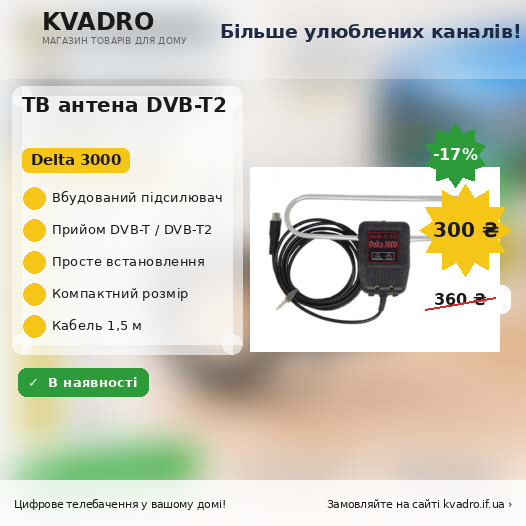
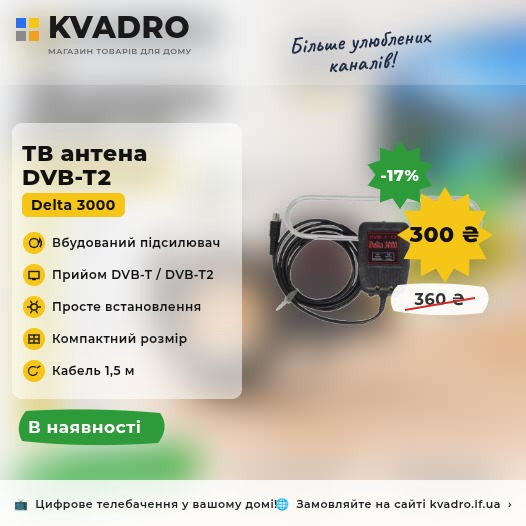
master - added generate promo command

diff --git a/public/lib/admin-promo-image-editor.js b/public/lib/admin-promo-image-editor.js
@@ -275,8 +275,8 @@
     }
 
     function drawLogoMark(x, y) {
-        const s = 7;
-        const gap = 2;
+        const s = 10;
+        const gap = 3;
         const colors = ['#2f6fed', '#f5c518', '#8a8a8a', '#f0a020'];
         colors.forEach((color, i) => {
             const col = i % 2;
@@ -357,36 +357,54 @@
             containImage(images.product, px, py, pw, ph);
         }
 
-        // Soft light panels for readability (height fits features + offset)
+        // Soft light panels — features offset expands height; whole block re-centers
+        const headerBottom = 85;
+        const footerTop = 480;
         const featuresOffset = Math.max(0, Math.min(100, Number(state.featuresOffsetY) || 0));
         const features = (state.features || []).filter(Boolean).slice(0, 5);
-        const featureStartY = 198 + featuresOffset;
         const featureStep = 32;
-        const lastFeatureY = features.length > 0
-            ? featureStartY + (features.length - 1) * featureStep
-            : 165 + featuresOffset;
-        const panelTop = 86;
-        const panelHeight = Math.max(200, lastFeatureY + 28 - panelTop);
+        const padTop = 22;
+        const titleBlockH = 48;
+        const modelRelY = padTop + titleBlockH; // 70
+        const modelH = 24;
+        const featureRelBase = modelRelY + modelH + 26; // 120
+        const featureRelStart = featureRelBase + featuresOffset;
+        const lastFeatureRel = features.length > 0
+            ? featureRelStart + (features.length - 1) * featureStep
+            : modelRelY + modelH;
+        const panelHeight = Math.max(160, lastFeatureRel + 28);
+        const showStock = !!(state.showStock && state.stockText);
+        const stockGap = showStock ? 12 : 0;
+        const stockH = showStock ? 32 : 0;
+        const totalBlockH = panelHeight + stockGap + stockH;
+        const available = footerTop - headerBottom;
+        let panelTop = headerBottom + Math.max(8, Math.round((available - totalBlockH) / 2));
+        panelTop = Math.max(headerBottom + 6, Math.min(panelTop, footerTop - totalBlockH - 6));
+
+        const titleY = panelTop + padTop + 16;
+        const modelY = panelTop + modelRelY;
+        const featureStartY = panelTop + featureRelStart;
+        const stockY = panelTop + panelHeight + stockGap;
 
         ctx.fillStyle = 'rgba(255,255,255,0.18)';
-        ctx.fillRect(0, 0, size, 78);
+        ctx.fillRect(0, 0, size, headerBottom);
         ctx.fillStyle = 'rgba(255,255,255,0.55)';
         roundRect(12, panelTop, 230, panelHeight, 10);
         ctx.fill();
 
         // Brand
-        drawLogoMark(18, 16);
+        drawLogoMark(16, 18);
         ctx.fillStyle = '#1a1a1a';
-        ctx.font = '800 22px Montserrat, Arial, sans-serif';
-        ctx.fillText(state.brandName || '', 42, 30);
+        ctx.font = '800 30px Montserrat, Arial, sans-serif';
+        ctx.fillText(state.brandName || '', 48, 38);
         ctx.fillStyle = '#666';
         ctx.font = '600 8px Montserrat, Arial, sans-serif';
         ctx.letterSpacing = '0.5px';
-        ctx.fillText((state.brandTagline || '').toUpperCase(), 42, 44);
+        ctx.fillText((state.brandTagline || '').toUpperCase(), 48, 54);
 
-        // Slogan
+        // Slogan — moves with features block
         ctx.save();
-        ctx.translate(360, 42);
+        ctx.translate(360, featureStartY);
         ctx.rotate(-0.08);
         ctx.fillStyle = '#1f2a44';
         ctx.font = '700 22px Caveat, cursive';
@@ -394,21 +412,20 @@
         wrapText(state.slogan || '', 0, 0, 170, 22);
         ctx.restore();
 
-        // Title (stays fixed)
+        // Title + model relative to panel; features shifted by offset inside panel
         ctx.textAlign = 'left';
         ctx.fillStyle = '#111';
         ctx.font = '800 22px Montserrat, Arial, sans-serif';
-        wrapText(state.title || '', 22, 112, 200, 24);
+        wrapText(state.title || '', 22, titleY, 200, 24);
 
-        // Model + features block (movable down)
         const model = state.model || '';
         ctx.font = '700 14px Montserrat, Arial, sans-serif';
         const modelW = Math.max(88, ctx.measureText(model).width + 18);
         ctx.fillStyle = '#f5c518';
-        roundRect(22, 148 + featuresOffset, modelW, 24, 6);
+        roundRect(22, modelY, modelW, modelH, 6);
         ctx.fill();
         ctx.fillStyle = '#111';
-        ctx.fillText(model, 31, 165 + featuresOffset);
+        ctx.fillText(model, 31, modelY + 17);
 
         features.forEach((text, i) => {
             const y = featureStartY + i * featureStep;
@@ -418,14 +435,12 @@
             ctx.fillText(text, 52, y + 4);
         });
 
-        // Stock just under the features panel
-        const stockY = panelTop + panelHeight + 14;
-        if (state.showStock && state.stockText) {
-            drawBrush(18, stockY, 130, 28, '#2e9b3a');
+        if (showStock) {
+            drawBrush(18, stockY, 148, stockH, '#2e9b3a');
             ctx.fillStyle = '#fff';
-            ctx.font = '700 13px Montserrat, Arial, sans-serif';
+            ctx.font = '700 17px Montserrat, Arial, sans-serif';
             ctx.textAlign = 'left';
-            ctx.fillText('✓  ' + state.stockText, 28, stockY + 19);
+            ctx.fillText(state.stockText, 28, stockY + 22);
         }
 
         // Price badges
@@ -465,7 +480,7 @@
         ctx.fillStyle = '#222';
         ctx.font = '600 11px Montserrat, Arial, sans-serif';
         ctx.textAlign = 'left';
-        ctx.fillText('📺  ' + (state.footerLeft || ''), 14, 508);
+        ctx.fillText(state.footerLeft || '', 14, 508);
         ctx.textAlign = 'right';
         ctx.fillText('🌐  ' + (state.footerRight || '') + '  ›', size - 14, 508);
         ctx.textAlign = 'left';

diff --git a/src/Command/GeneratePromoFromProductsCommand.php b/src/Command/GeneratePromoFromProductsCommand.php
@@ -179,12 +179,32 @@ final class GeneratePromoFromProductsCommand extends Command
             ];
         }
 
+        if (
+            str_contains($slug, 'gear')
+            || str_contains($sku, 'wp952')
+            || str_contains(mb_strtolower($name), 'powerbank')
+            || str_contains(mb_strtolower($name), 'повербанк')
+        ) {
+            return [
+                'Повербанк 20000 mAh',
+                'GEAR 20000',
+                'Заряд завжди з вами!',
+                [
+                    'Ємність 20000 mAh',
+                    'Power Delivery 22.5W',
+                    'Цифровий дисплей',
+                    '4 порти зарядки',
+                    'Для телефону й роутера',
+                ],
+            ];
+        }
+
         $model = $product->getSku() !== '' ? $product->getSku() : mb_substr($name, 0, 24);
 
         return [
             $name,
             $model,
-            'Більше улюблених каналів!',
+            'Вигідна пропозиція!',
             [
                 'Якісний товар',
                 'Швидка доставка',
@@ -197,6 +217,15 @@ final class GeneratePromoFromProductsCommand extends Command
 
     private function resolveProductImageUrl(Product $product): string
     {
+        $slug = $product->getSlug();
+        $cutouts = [
+            'delta-3000' => '/uploads/promo/products/111142.png',
+            'wv-t624' => '/uploads/promo/products/11074.png',
+        ];
+        if (isset($cutouts[$slug]) && is_file($this->projectDir.'/public'.$cutouts[$slug])) {
+            return $cutouts[$slug];
+        }
+
         $gallery = $product->getGallery();
         if (isset($gallery[0]['full']) && \is_string($gallery[0]['full']) && $gallery[0]['full'] !== '') {
             $full = $gallery[0]['full'];
@@ -205,15 +234,6 @@ final class GeneratePromoFromProductsCommand extends Command
             }
 
             return '/uploads/products/'.basename($full);
-        }
-
-        $slug = $product->getSlug();
-        $cutouts = [
-            'delta-3000' => '/uploads/promo/products/111142.png',
-            'wv-t624' => '/uploads/promo/products/11074.png',
-        ];
-        if (isset($cutouts[$slug]) && is_file($this->projectDir.'/public'.$cutouts[$slug])) {
-            return $cutouts[$slug];
         }
 
         return '/uploads/promo/default-product.png';
@@ -255,26 +275,48 @@ final class GeneratePromoFromProductsCommand extends Command
         /** @var list<string> $features */
         $features = array_values(array_filter(array_map('strval', (array) ($c['features'] ?? []))));
         $features = \array_slice($features, 0, 5);
-        $featureStartY = 198 + $offset;
-        $lastFeatureY = $features !== [] ? $featureStartY + (\count($features) - 1) * 32 : 165 + $offset;
-        $panelHeight = max(200, $lastFeatureY + 28 - 86);
 
-        imagefilledrectangle($im, 0, 0, $size, 78, imagecolorallocatealpha($im, 255, 255, 255, 90));
-        $this->roundRect($im, 12, 86, 230, $panelHeight, 10, imagecolorallocatealpha($im, 255, 255, 255, 50));
+        $headerBottom = 85;
+        $footerTop = 480;
+        $featureStep = 32;
+        $padTop = 22;
+        $titleBlockH = 48;
+        $modelRelY = $padTop + $titleBlockH;
+        $modelH = 24;
+        $featureRelBase = $modelRelY + $modelH + 26;
+        $featureRelStart = $featureRelBase + $offset;
+        $lastFeatureRel = $features !== []
+            ? $featureRelStart + (\count($features) - 1) * $featureStep
+            : $modelRelY + $modelH;
+        $panelHeight = max(160, $lastFeatureRel + 28);
+        $showStock = !empty($c['showStock']) && (string) ($c['stockText'] ?? '') !== '';
+        $stockGap = $showStock ? 12 : 0;
+        $stockH = $showStock ? 32 : 0;
+        $totalBlockH = $panelHeight + $stockGap + $stockH;
+        $available = $footerTop - $headerBottom;
+        $panelTop = $headerBottom + max(8, (int) round(($available - $totalBlockH) / 2));
+        $panelTop = max($headerBottom + 6, min($panelTop, $footerTop - $totalBlockH - 6));
+        $titleY = $panelTop + $padTop + 16;
+        $modelY = $panelTop + $modelRelY;
+        $featureStartY = $panelTop + $featureRelStart;
+        $stockY = $panelTop + $panelHeight + $stockGap;
 
-        $this->text($im, $fontBold, 18, 42, 30, (string) $c['brandName'], $ink);
-        $this->text($im, $fontReg, 7, 42, 44, mb_strtoupper((string) $c['brandTagline']), $muted);
-        $this->text($im, $fontBold, 14, 370, 38, (string) $c['slogan'], $sloganColor, 'center');
-        $this->wrapText($im, $fontBold, 15, 22, 112, (string) $c['title'], $ink, 210, 20);
+        imagefilledrectangle($im, 0, 0, $size, $headerBottom, imagecolorallocatealpha($im, 255, 255, 255, 90));
+        $this->roundRect($im, 12, $panelTop, 230, $panelHeight, 10, imagecolorallocatealpha($im, 255, 255, 255, 50));
+
+        $this->text($im, $fontBold, 24, 48, 38, (string) $c['brandName'], $ink);
+        $this->text($im, $fontReg, 7, 48, 54, mb_strtoupper((string) $c['brandTagline']), $muted);
+        $this->text($im, $fontBold, 14, 370, $featureStartY, (string) $c['slogan'], $sloganColor, 'center');
+        $this->wrapText($im, $fontBold, 15, 22, $titleY, (string) $c['title'], $ink, 210, 20);
 
         $model = (string) $c['model'];
         $bbox = imagettfbbox(11, 0, $fontBold, $model);
         $modelW = max(88, ($bbox[2] - $bbox[0]) + 18);
-        $this->roundRect($im, 22, 148 + $offset, (int) $modelW, 24, 6, $yellow);
-        $this->text($im, $fontBold, 11, 31, 165 + $offset, $model, $ink);
+        $this->roundRect($im, 22, $modelY, (int) $modelW, $modelH, 6, $yellow);
+        $this->text($im, $fontBold, 11, 31, $modelY + 17, $model, $ink);
 
         foreach ($features as $i => $feat) {
-            $y = $featureStartY + $i * 32;
+            $y = $featureStartY + $i * $featureStep;
             imagefilledellipse($im, 34, $y, 22, 22, $yellow);
             $this->text($im, $fontReg, 10, 52, $y + 4, $feat, $ink);
         }
@@ -294,13 +336,12 @@ final class GeneratePromoFromProductsCommand extends Command
             imageline($im, 425, 310, 495, 298, $red);
         }
 
-        $stockY = 86 + $panelHeight + 14;
-        if (!empty($c['showStock']) && (string) $c['stockText'] !== '') {
-            $this->roundRect($im, 18, $stockY, 130, 28, 8, $green);
-            $this->text($im, $fontBold, 10, 28, $stockY + 19, '✓  '.$c['stockText'], $white);
+        if ($showStock) {
+            $this->roundRect($im, 18, $stockY, 148, $stockH, 8, $green);
+            $this->text($im, $fontBold, 13, 28, $stockY + 22, (string) $c['stockText'], $white);
         }
 
-        imagefilledrectangle($im, 0, 480, $size, $size, imagecolorallocatealpha($im, 255, 255, 255, 25));
+        imagefilledrectangle($im, 0, $footerTop, $size, $size, imagecolorallocatealpha($im, 255, 255, 255, 25));
         $this->text($im, $fontReg, 8, 14, 508, (string) $c['footerLeft'], $ink);
         $this->text($im, $fontReg, 8, $size - 14, 508, (string) $c['footerRight'].' ›', $ink, 'right');
 

diff --git a/src/Controller/Admin/PromoImageEditorController.php b/src/Controller/Admin/PromoImageEditorController.php
@@ -275,7 +275,7 @@ final class PromoImageEditorController extends AbstractController
         return [
             'canvasSize' => self::CANVAS_SIZE,
             'backgroundUrl' => '/uploads/promo/default-bg.jpg',
-            'productUrl' => '/uploads/promo/default-product.png',
+            'productUrl' => '/uploads/promo/products/111142.png',
             'brandName' => 'KVADRO',
             'brandTagline' => 'МАГАЗИН ТОВАРІВ ДЛЯ ДОМУ',
             'title' => 'ТВ антена DVB-T2',
